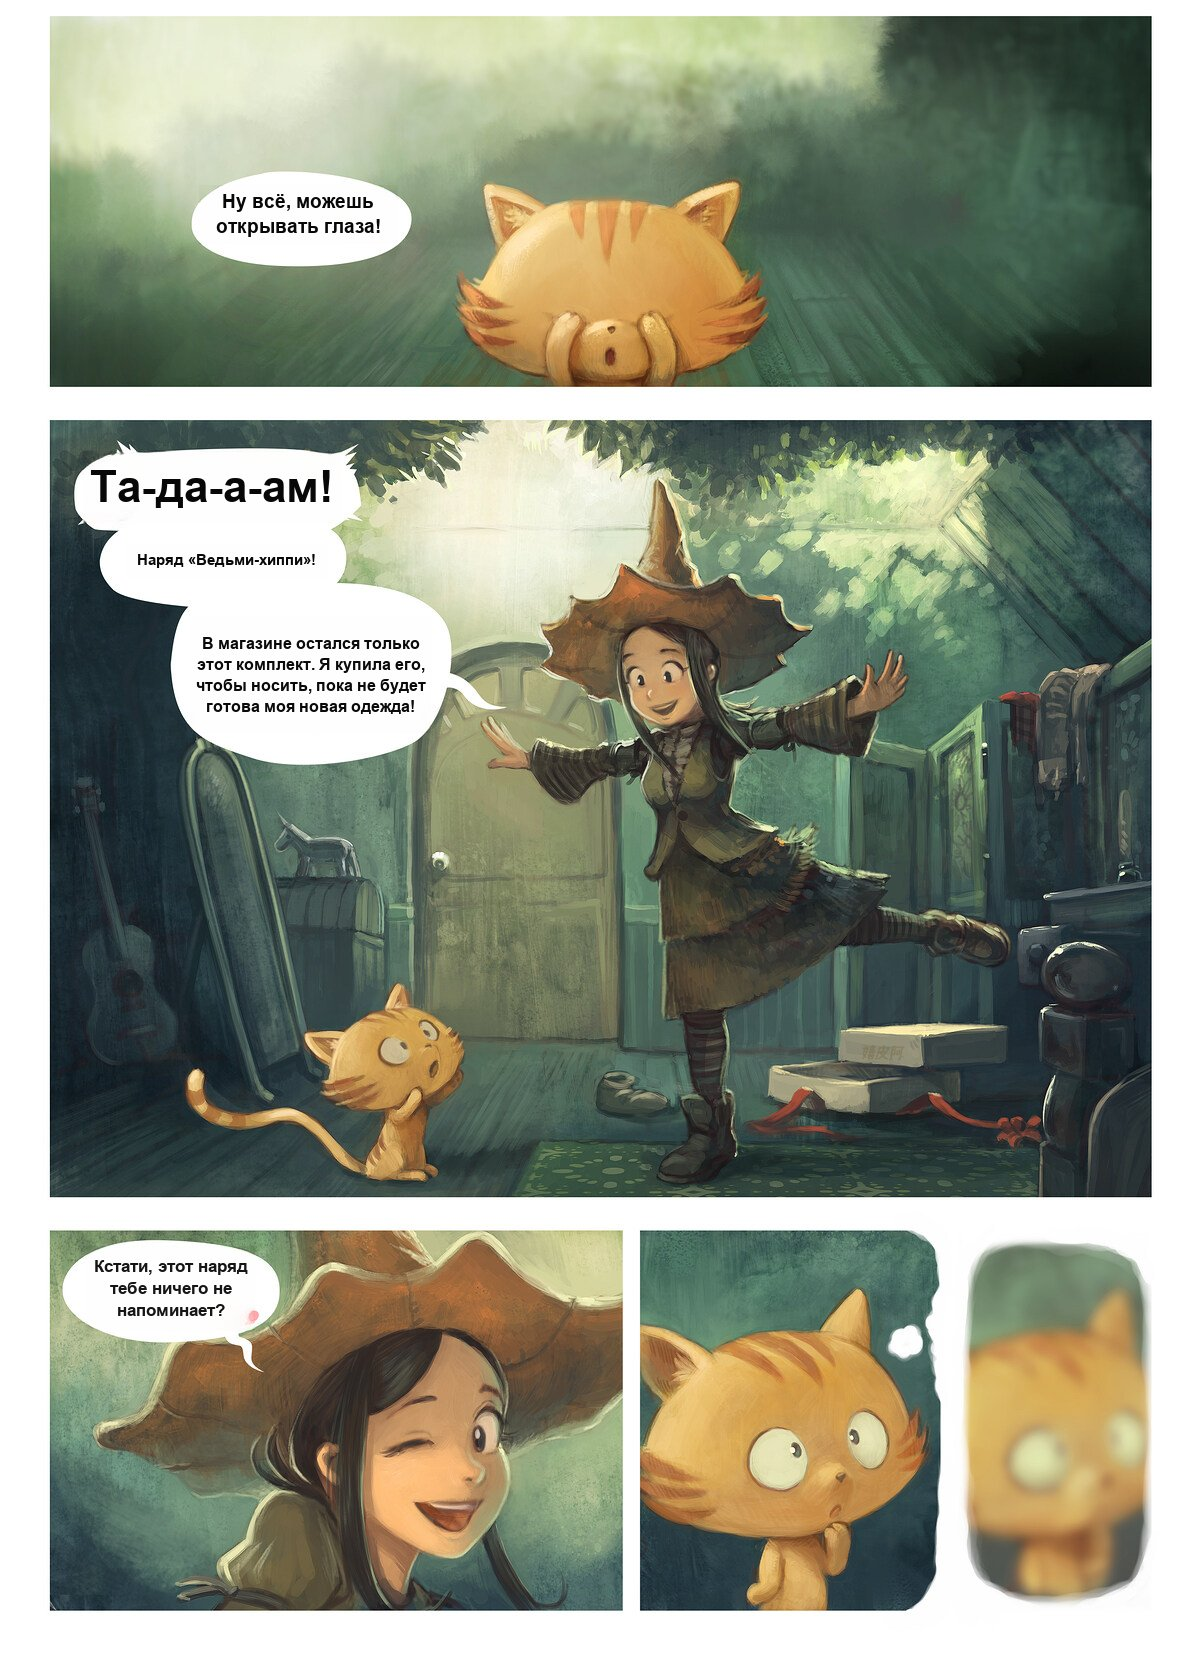
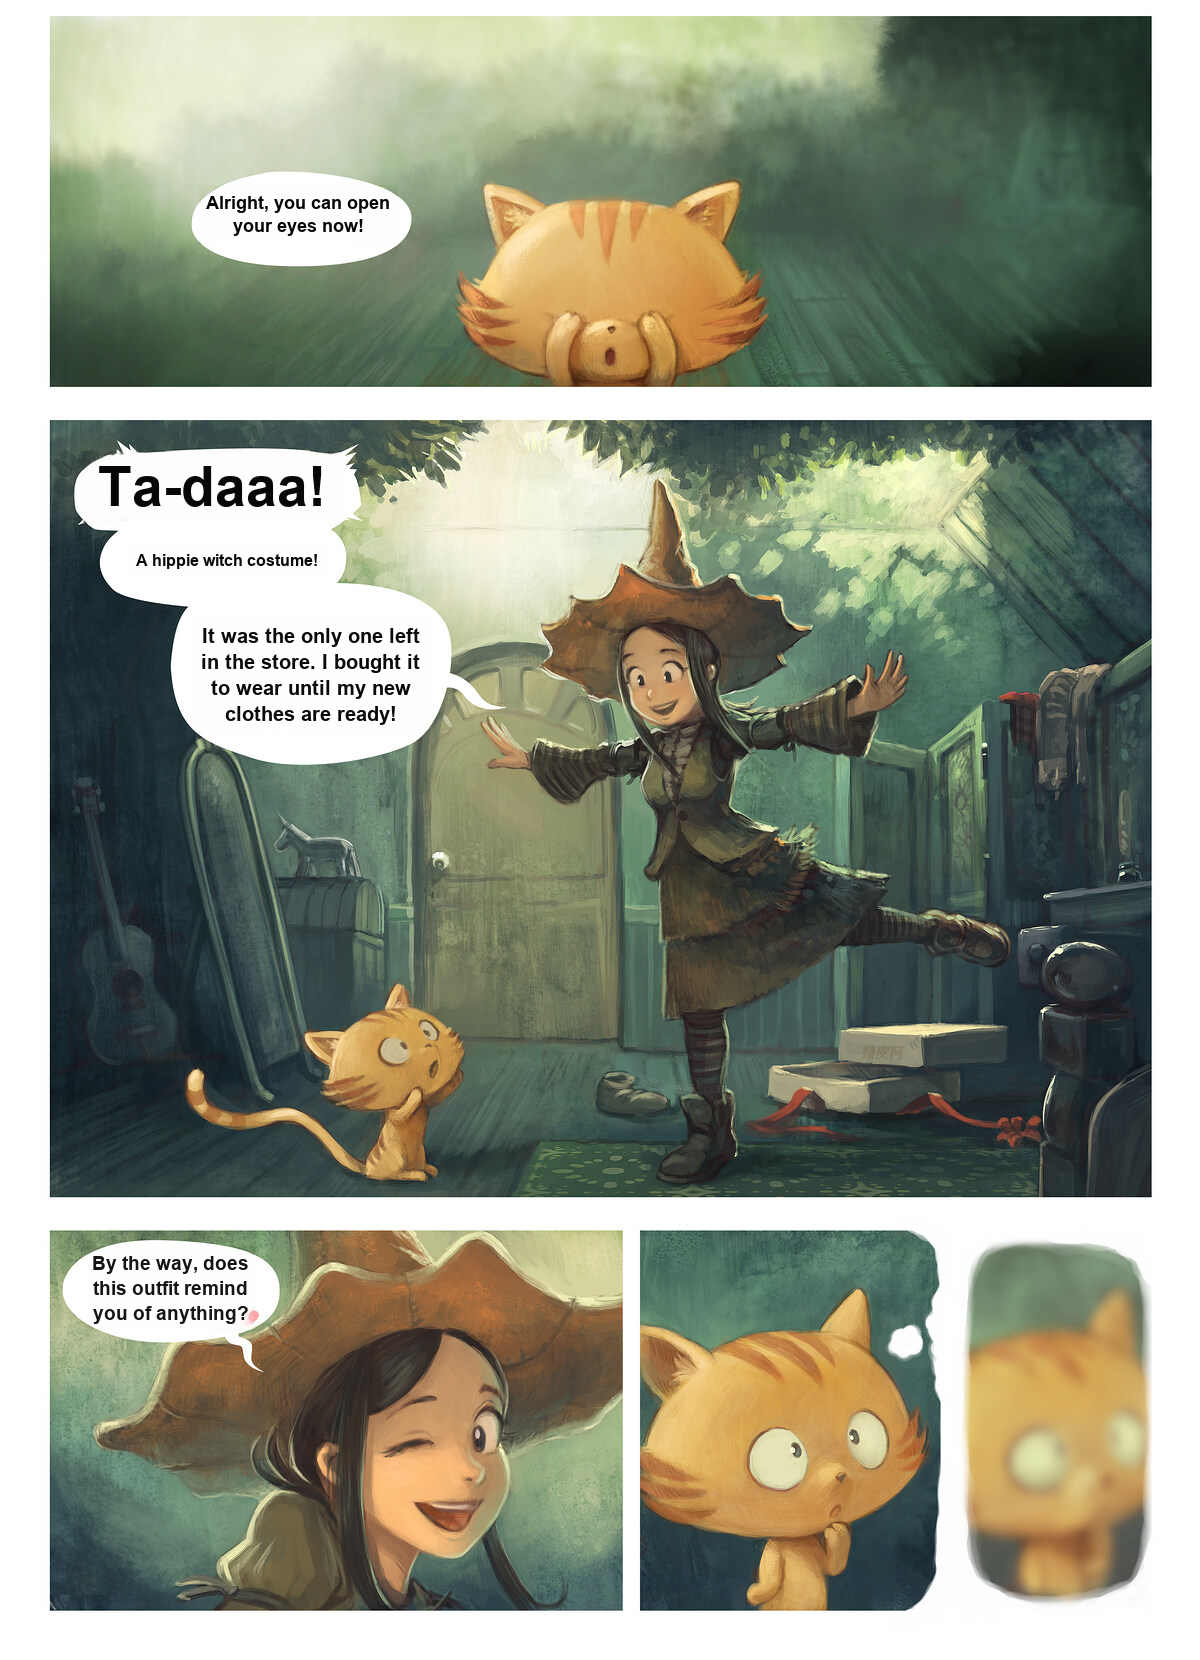
Поправил readme

diff --git a/README.md b/README.md
@@ -14,7 +14,7 @@ Everything runs **locally** on your machine via [Ollama](https://ollama.com). No
 <table>
 <tr>
 <th width="50%">Original (Chinese)</th>
-<th width="50%">Kotoba → Russian</th>
+<th width="50%">Kotoba → English</th>
 </tr>
 <tr>
 <td><img src="docs/sample_original.jpg" alt="Original page from Pepper&Carrot"></td>